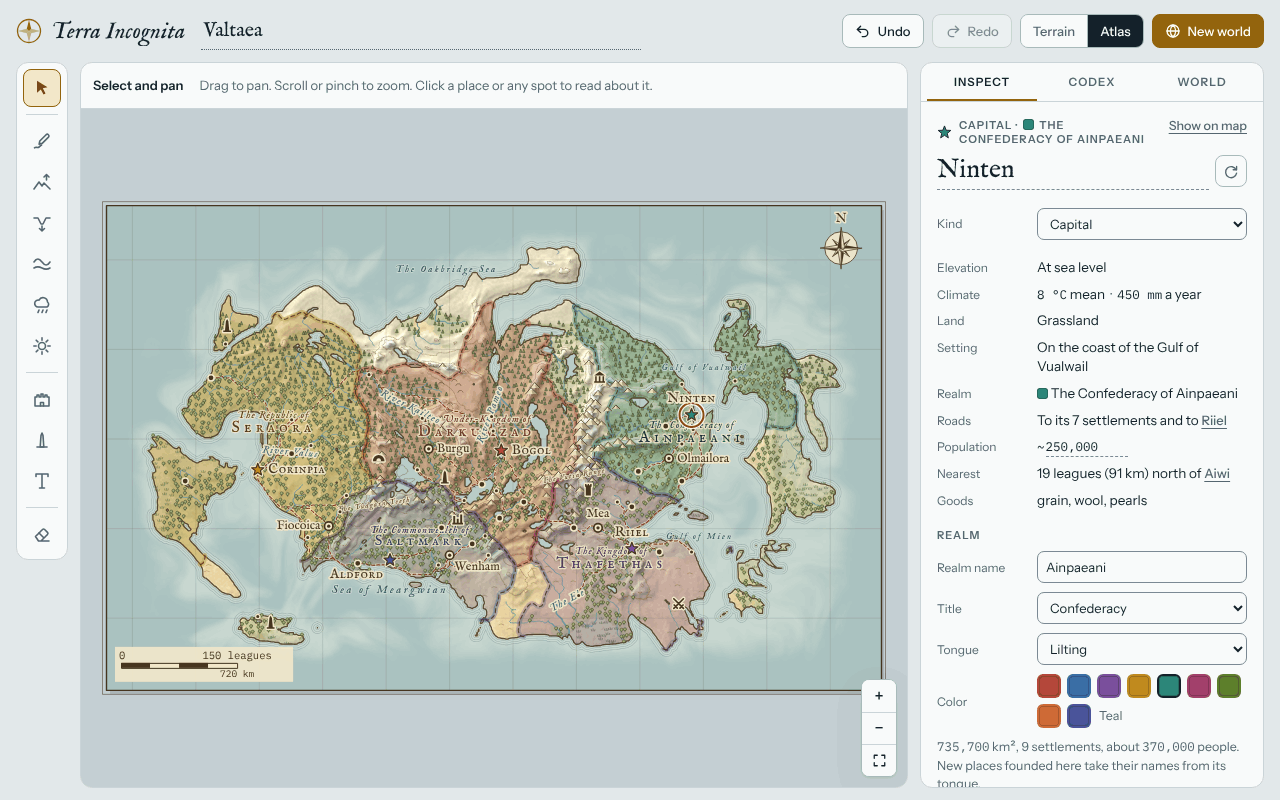
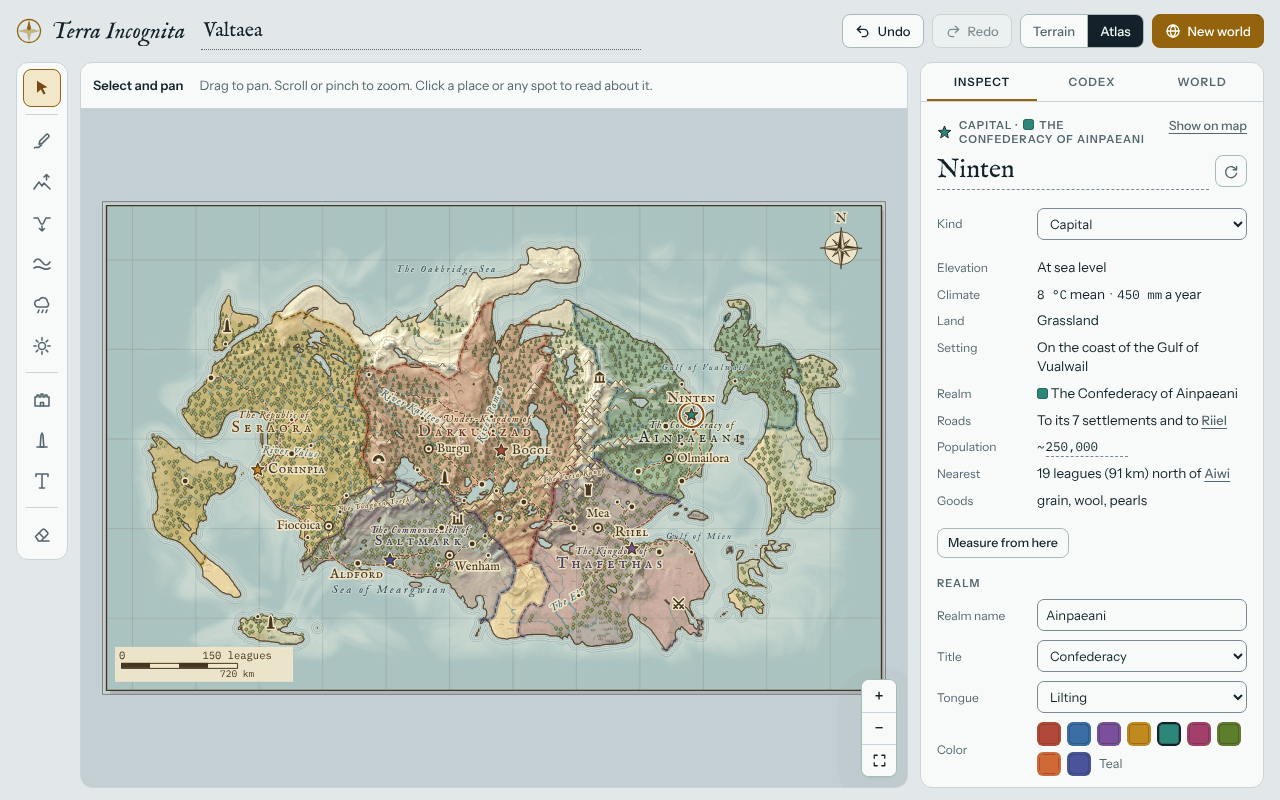
Measure the distance from a place to another place or spot
The only distance on a place's page was its Nearest row, so planning a journey meant counting grid squares. A place's
page now has Measure from here: the next tap on the map, on another place or any spot, draws a dashed line to it and
says how far it is as the crow flies, in leagues and km, and how many days on foot at 8 leagues a day, the normal pace
of 24 miles a day in D&D 5th edition's Travel Pace table (Player's Handbook, 2014, chapter 8); a line over the sea says
so instead. A drag still pans while it waits, Escape or Stop measuring ends it, and the next tap takes the line away.
Nothing is saved or added to Undo. The README's pictures of a place's page are redrawn. This answers Mark's question on
measuring the distance between two places.

Claude-Session: https://claude.ai/code/session_01PQbLNV8yuVmPjyBMzr2F36

Changed region(s): [[0.7188, 0.6562, 0.9688, 0.9688], [0.7188, 0.8125, 0.75, 0.8438]]

diff --git a/js/app.js b/js/app.js
@@ -1190,7 +1190,7 @@ function newWorld(seed, shape, opts = {}) {
   world.name = worldTitle(shape, rng, D.realms.length ? D.realms[0].tongue : 'vale');
   // An Inland sea world's sea takes the name in its title: 'The Shores of X' lies on the X Sea.
   const core = shape === 'inland' && titleCore(world.name); if (core && D.mainSea) { D.mainSea.text = `The ${core} Sea`; keepLabelIn(D.mainSea); }
-  ui.selected = null; dropDraft();
+  ui.selected = null; measure = null; dropDraft();
   recomputeAll();
 }
 
@@ -1311,6 +1311,7 @@ function checkWorld(o, fromFile) {
   return { o, h: unpackF(o.h, fromFile), m: unpackF(o.m, fromFile) };
 }
 function applyWorld({ o, h, m }) {
+  measure = null;
   const placed = q => q && typeof q.x === 'number' && typeof q.y === 'number' && isFinite(q.x) && isFinite(q.y);
   if (!world) world = { h, m }; else { world.h.set(h); world.m.set(m); }
   const stamp = v => typeof v === 'string' && !isNaN(Date.parse(v)) ? v : null;
@@ -1804,6 +1805,7 @@ function drawMap(c, k, vw, vh, v, opt) {
   drawPlaces(c, v, vw, vh, atlas, INK, HALO, { ...opt, riverSize, avoid }, small);
   if (!opt.export && ui.tool === 'erase') drawSources(c, v);
   if (!opt.export) drawSelection(c, v, atlas);
+  if (!opt.export) drawMeasure(c, v, atlas);
   if (!opt.export && sketchDraft) drawSketch(c, v);
   if (panels) drawPanels(c, panels, u, atlas, INK, HALO);
   c.restore();
@@ -2087,6 +2089,59 @@ function removeSource(sp) {
   world.springs = world.springs.filter(q => q !== sp);
   recomputeAll(); markDirty();
   toast(`Took away the source of ${was}. Its valley stays, and rain finds its own way down it.`, { label: 'Undo', fn: undo });
+}
+// ------------------------------------------------------------------ measuring
+// Measure from here, on a place's page: the next tap on the map, on another place or any spot, measures the straight
+// line to it, in leagues and km, and how many days that is on foot. Nothing is saved. A day on foot is 8 leagues: the
+// normal pace of D&D 5th edition's Travel Pace table (Player's Handbook, 2014, chapter 8) is 24 miles a day, and a
+// league is 3 miles.
+let measure = null; // { from: a place's id, to: null while waiting for the tap, then { x, y, name }, said }
+const FOOT_DAY = 8 * LEAGUE; // km
+function startMeasure(p) {
+  measure = { from: p.id, to: null, said: '' };
+  renderMeasure(); updateCursor(); requestDraw(); mapIntoView();
+  toast(`${TAP} another place or any spot on the map to measure from ${placeIn(p)}.`, { label: 'Cancel', fn: endMeasure }, 20000);
+}
+function endMeasure() { if (!measure) return; measure = null; renderMeasure(); updateCursor(); requestDraw(); dropActionToast(); }
+// The line to a place or spot, as the crow flies: on foot unless it crosses the sea.
+function measureSay(a, b) {
+  const km = Math.hypot(b.x - a.x, b.y - a.y) * KM, lg = Math.round(km / LEAGUE);
+  let wet = false; const n = Math.ceil(Math.hypot(b.x - a.x, b.y - a.y) * 2);
+  for (let k = 0; k <= n && !wet; k++) { const i = cellAt(a.x + (b.x - a.x) * k / n, a.y + (b.y - a.y) * k / n); if (world.h[i] < world.sea) wet = true; }
+  const days = km / FOOT_DAY, foot = wet ? 'across the sea' : days < 0.75 ? 'under a day on foot' : `about ${Math.round(days)} day${Math.round(days) === 1 ? '' : 's'} on foot`;
+  const how = lg ? `${lg} league${lg === 1 ? '' : 's'} (${fmtInt(roundSig(km, 2))} km)` : `under a league (${fmtInt(Math.max(1, Math.round(km)))} km)`;
+  const from = placeIn(a);
+  return `${from[0].toUpperCase() + from.slice(1)} to ${b.name}: ${how} as the crow flies, ${foot}.`;
+}
+// The tap that ends a measure: a place (by its symbol or name) or a spot, named by its water where that has a name.
+function measureTo(sx, sy) {
+  const a = world.places.find(p => p.id === measure.from); if (!a) { endMeasure(); return; }
+  const hit = hitTest(sx, sy), q = hit && hit.type === 'place' ? findSel(hit) : null, w = toWorld(sx, sy);
+  if (!q && !(w.x >= 0 && w.y >= 0 && w.x < W && w.y < H)) { toast(`That is off the edge of the world. ${TAP} a place or a spot on the map.`, { label: 'Cancel', fn: endMeasure }, 20000); return; }
+  if (q === a) { toast(`That is ${placeIn(a)} itself. ${TAP} another place or spot.`, { label: 'Cancel', fn: endMeasure }, 20000); return; }
+  let to;
+  if (q) to = { x: q.x, y: q.y, name: placeIn(q) };
+  else { const f = facts(w.x, w.y, null), l = waterLabel(f, w); to = { x: w.x, y: w.y, name: l && l.text.trim() ? seaInText(l.text) : 'that spot' }; }
+  measure.to = to; measure.said = measureSay(a, to);
+  toast(measure.said, { label: 'Measure again', fn: () => startMeasure(a) }, 15000);
+  renderMeasure(); updateCursor(); requestDraw();
+}
+// The place page's button and the last measure's words under it.
+function renderMeasure() {
+  const b = $('#pMeasure'), out = $('#pMeasureOut'); if (!b || !ui.selected || ui.selected.type !== 'place') return;
+  const mine = measure && measure.from === ui.selected.id, waiting = mine && !measure.to;
+  b.textContent = waiting ? 'Stop measuring' : 'Measure from here'; b.setAttribute('aria-pressed', String(!!waiting));
+  out.textContent = mine && measure.to ? measure.said : waiting ? `${TAP} another place or any spot on the map.` : ''; out.hidden = !out.textContent;
+}
+// A dashed line from the place to what it was measured to, or, with a mouse, to the pointer while it waits.
+function drawMeasure(c, v, atlas) {
+  if (!measure) return; const a = world.places.find(p => p.id === measure.from); if (!a) return;
+  const b = measure.to || (hover ? toWorld(hover.x, hover.y) : null); if (!b) return;
+  const X0 = v.ox + a.x * v.s, Y0 = v.oy + a.y * v.s, X1 = v.ox + b.x * v.s, Y1 = v.oy + b.y * v.s, acc = atlas ? '#8a4b12' : '#c68a1a';
+  c.save(); c.lineCap = 'round'; c.setLineDash([7, 6]);
+  for (const [lw, col] of [[4.5, 'rgba(255,255,255,0.85)'], [2, acc]]) { c.beginPath(); c.moveTo(X0, Y0); c.lineTo(X1, Y1); c.lineWidth = lw; c.strokeStyle = col; c.stroke(); }
+  c.setLineDash([]); c.beginPath(); c.arc(X1, Y1, 4, 0, Math.PI * 2); c.fillStyle = acc; c.fill(); c.lineWidth = 1.5; c.strokeStyle = 'rgba(255,255,255,0.9)'; c.stroke();
+  c.restore();
 }
 function drawSelection(c, v, atlas) {
   const sel = ui.selected; if (!sel) return; const o = findSel(sel); if (!o) return;
@@ -2412,6 +2467,7 @@ function showBrushSize() { sizePreview = performance.now() + 700; requestDraw();
 function updateCursor() {
   if (gesture && (gesture.type === 'pan' || (gesture.type === 'click' && gesture.moved))) canvas.style.cursor = 'grabbing';
   else if (spaceDown) canvas.style.cursor = 'grab';
+  else if (measure && !measure.to) canvas.style.cursor = 'crosshair';
   else if (BRUSH_TOOLS.has(ui.tool)) canvas.style.cursor = 'none';
   else if (ui.tool === 'select') canvas.style.cursor = hoverHit ? 'pointer' : 'grab';
   else canvas.style.cursor = 'crosshair';
@@ -3064,6 +3120,10 @@ canvas.addEventListener('pointerdown', e => {
   if (ptrs.size > 2) return;
   if (e.button === 1 || e.button === 2 || spaceDown) { gesture = { type: 'pan', lx: pt.x, ly: pt.y }; updateCursor(); return; }
   if (e.button !== 0) return;
+  // While measuring, a tap measures, whatever the tool, and a drag still pans. Once measured, the next touch on the map
+  // takes the line away and does what it always does.
+  if (measure && measure.to) endMeasure();
+  if (measure) { gesture = { type: 'click', sx: pt.x, sy: pt.y, lx: pt.x, ly: pt.y, moved: false, measure: true }; return; }
   const w = toWorld(pt.x, pt.y);
   if (ui.tool === 'sketch') {
     if (w.x >= 0 && w.y >= 0 && w.x < W && w.y < H) { sketchDraft = { mode: ui.sketch.mode, pts: [w.x, w.y] }; gesture = { type: 'sketch' }; requestDraw(); }
@@ -3102,7 +3162,7 @@ canvas.addEventListener('pointermove', e => {
     const hh = hitTest(pt.x, pt.y); if (!!hh !== !!hoverHit) { hoverHit = hh; updateCursor(); }
   }
   scheduleStatus();
-  if (BRUSH_TOOLS.has(ui.tool)) requestDraw();
+  if (BRUSH_TOOLS.has(ui.tool) || (measure && !measure.to)) requestDraw();
 });
 function endPointer(e) {
   const pt = local(e); const had = ptrs.has(e.pointerId); ptrs.delete(e.pointerId);
@@ -3113,7 +3173,7 @@ function endPointer(e) {
   if (!g) return;
   if (g.type === 'stroke') endStroke();
   else if (g.type === 'sketch') { if (e.type === 'pointerup') finishSketch(); else { sketchDraft = null; requestDraw(); } }
-  else if (g.type === 'click' && !g.moved && e.type === 'pointerup') handleClick(pt.x, pt.y);
+  else if (g.type === 'click' && !g.moved && e.type === 'pointerup') { if (!g.measure) handleClick(pt.x, pt.y); else if (measure && !measure.to) measureTo(pt.x, pt.y); }
   else if (g.type === 'drag' && g.moved) finishDrag(g);
   updateCursor();
 }
@@ -3181,6 +3241,8 @@ function handleClick(sx, sy) {
 // page of the place there, or of the spot, and says what it is.
 function keyClick() {
   const cx = view.cw / 2, cy = view.ch / 2, t = ui.tool, w = toWorld(cx, cy), inside = w.x >= 0 && w.y >= 0 && w.x < W && w.y < H;
+  if (measure && measure.to) endMeasure();
+  if (measure) { measureTo(cx, cy); return; }
   if (t === 'sketch') { toast('A sketch is drawn with a mouse, a pen or a finger: hold and drag on the map.'); return; }
   if (BRUSH_TOOLS.has(t)) { if (inside) { startStroke(cx, cy); strokeFrame(); endStroke(); } return; }
   if (t !== 'select') { handleClick(cx, cy); return; }
@@ -3482,6 +3544,7 @@ function dropDraft(id) { for (const [k, d] of drafts) if (id === undefined || k 
 // next place founded gets the same id, and would otherwise open with the old place's draft.
 function dropOrphanDraft() { const ids = new Set(world.places.map(p => p.id)); for (const k of [...drafts.keys()]) if (!ids.has(k)) dropDraft(k); }
 function select(sel) {
+  if (measure && !(sel && sel.type === 'place' && sel.id === measure.from)) { measure = null; updateCursor(); }
   ui.selected = sel;
   if (sel) showTab('inspect');
   renderInspector(); requestDraw();
@@ -3638,6 +3701,8 @@ function placeHTML(p) {
     </div>
     <div class="field"><label for="pKind">Kind</label><select id="pKind">${kindOpts.map(([v, l]) => `<option value="${v}" ${v === cur ? 'selected' : ''}>${l}</option>`).join('')}</select></div>
     ${factsHTML(f, p)}
+    <div class="row"><button class="btn sm" id="pMeasure" aria-pressed="false">Measure from here</button></div>
+    <p class="note" id="pMeasureOut" hidden></p>
     ${realm}
     <div class="section"><h3>Chronicle</h3>
       <div class="row">
@@ -3735,6 +3800,8 @@ function bindPlace(p) {
   }
   $('#pLore').addEventListener('input', e => { once(`Notes on ${p.name}`); p.lore = e.target.value; touched(); markDirty(); });
   $('#pDelete').onclick = () => removeSel({ type: 'place', id: p.id });
+  $('#pMeasure').onclick = () => { if (measure && measure.from === p.id && !measure.to) endMeasure(); else startMeasure(p); };
+  renderMeasure();
   $('#pRumor').onclick = () => { if (draftFor(p.id).busy) return; setDraft(p.id, { text: rumor(p), busy: false, kind: 'rumor', note: '', ctl: null }); renderDraft(); };
   const wb = $('#pWrite'); if (wb) wb.onclick = () => writeHistory(p);
   // Keeping a rumor or history is a step of its own, so Undo takes back just what was added.
@@ -4175,6 +4242,7 @@ window.addEventListener('keydown', e => {
   if (e.key === ' ' && (!el || el === document.body || el === canvas || (hover && el !== keyFocus))) { if (!spaceDown) { spaceDown = true; updateCursor(); } e.preventDefault(); return; }
   if (e.key === 'Escape') {
     if (!$('#newMenu').hidden) { closeNewMenu(); $('#btnNew').focus(); return; }
+    if (measure) { endMeasure(); return; }
     if (sketchDraft) { sketchDraft = null; gesture = null; requestDraw(); return; }
     select(null); refocus('#tab-inspect'); return;
   }

diff --git a/sw.js b/sw.js
@@ -9,7 +9,7 @@
 // fingerprint of every file in SHELL: change any of them and test/e2e.mjs fails until FILES is changed to match (it
 // says what to), which changes this file, so every copy is made whole again at once.
 const CACHE = 'terra-incognita-v3'; // bump the number when the file list changes
-const FILES = 'c9af29f7'; // test/e2e.mjs checks this
+const FILES = '965c7fd7'; // test/e2e.mjs checks this
 const SHELL = [
   './', 'index.html', 'css/app.css', 'js/app.js', 'js/edge-guard.js', 'manifest.webmanifest', 'icon.svg',
   'icon-180.png', 'icon-192.png', 'icon-512.png', 'icon-512-maskable.png',

diff --git a/README.md b/README.md
@@ -12,7 +12,7 @@ and sea stop them. Every town has a page for its story.
   &nbsp;
   <img src="docs/phone-sketch.png" alt="A hand-drawn island in shaded relief, with two snowy ranges and named rivers and no towns yet, and a second island being sketched as a loop in the sea beside it" width="250">
   &nbsp;
-  <img src="docs/phone-place.png" alt="The page for an inland capital: its realm, where its roads go, its population, nearest neighbour and local goods, its realm's name, title, tongue and colour, and a rumor rolled from the map kept in its notes" width="250">
+  <img src="docs/phone-place.png" alt="The page for an inland capital: its population, nearest neighbour and local goods, a button to measure from it, its realm's name, title, tongue and colour, and a rumor rolled from the map kept in its notes" width="250">
 </p>
 
 ## How it plays
@@ -45,11 +45,12 @@ and sea stop them. Every town has a page for its story.
 - **Places.** Tap any town or patch of ground to see its elevation, climate, nearest neighbour and local goods, with
   distances in leagues of 4.8 km, its river: which way it flows, how far on it reaches the sea and how much land it
   drains, and the road it is on. A settlement's population is a guess from its land until you type in your own, which
-  stays through a change of kind and counts in its realm's total. Keep notes for your lore, or roll a rumor built from
-  the map around it. A sea, a region or a range named on the map has a page for notes too, and the world has its own
-  on the welcome page. From the keyboard, Tab to the map, pan it with the arrow keys and press Enter to read the spot
-  in the middle. The Codex lists every place and every sea, region and range named on the map, and finds words in all
-  your notes.
+  stays through a change of kind and counts in its realm's total. *Measure from here* on a place's page gives the
+  straight line to the next place or spot you tap, in leagues and km, and how long that is on foot at 8 leagues (24
+  miles) a day. Keep notes for your lore, or roll a rumor built from the map around it. A sea, a region or a range
+  named on the map has a page for notes too, and the world has its own on the welcome page. From the keyboard, Tab to
+  the map, pan it with the arrow keys and press Enter to read the spot in the middle. The Codex lists every place and
+  every sea, region and range named on the map, and finds words in all your notes.
 - **Keyboard.** Every tool has a letter (V, P, R…), [ and ] size the brush, F shows the whole map, and Ctrl S saves
   the world file; the World tab lists them.
 - **Two looks.** Terrain is shaded relief; Atlas is parchment with drawn mountains and trees. A world file opens in
